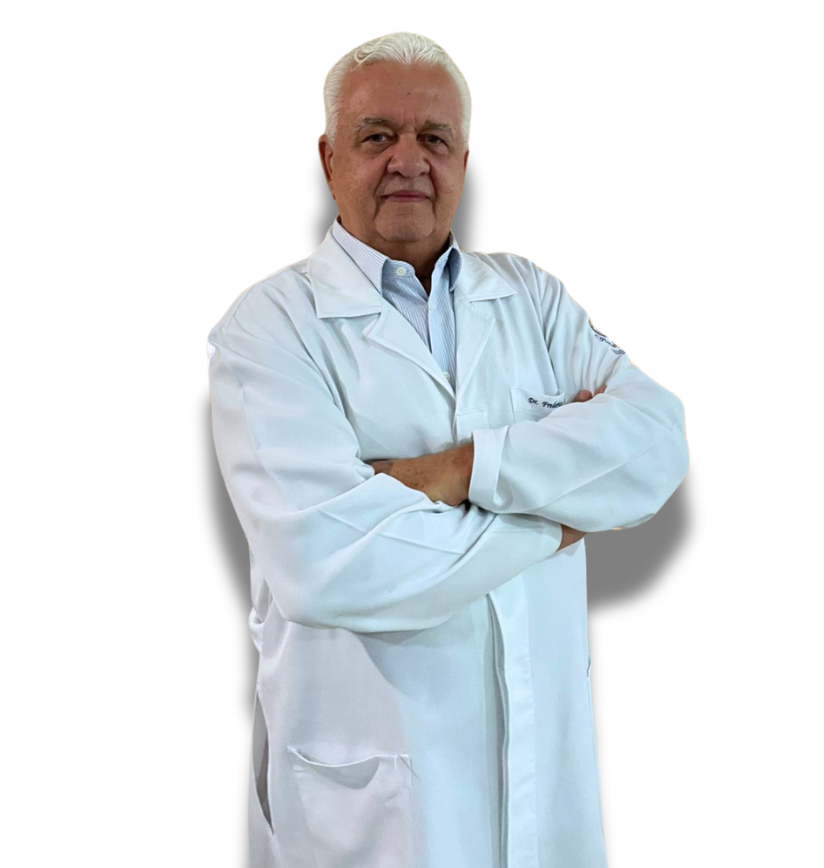
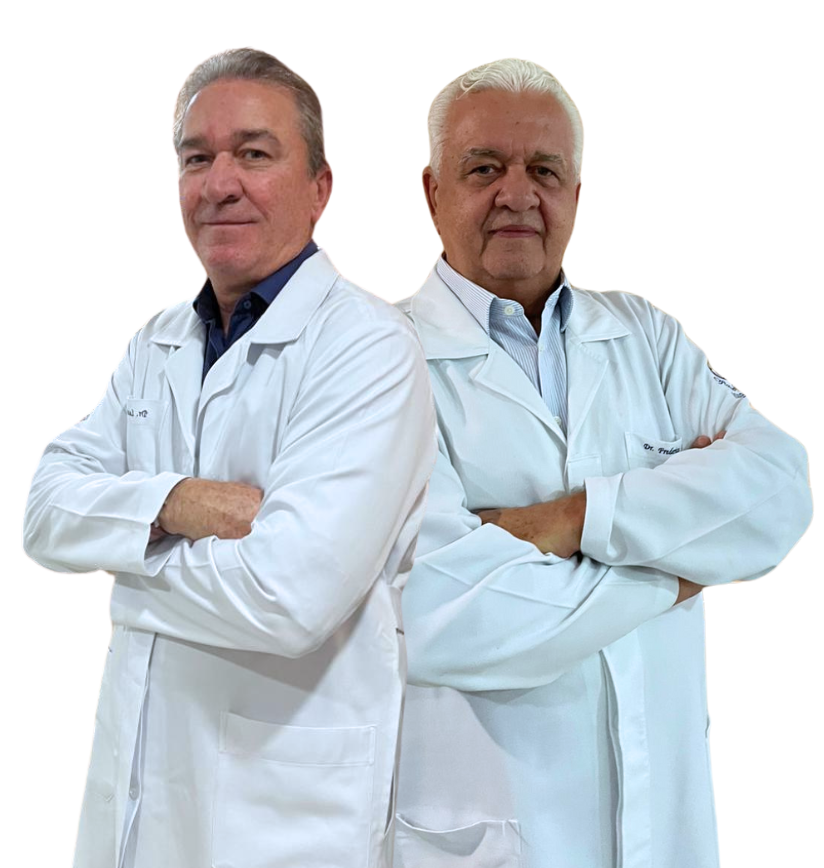
fix: ajustes

diff --git a/about-us.html b/about-us.html
@@ -52,7 +52,7 @@
         });
     </script>
 
-        <!-- HEADER SECTION -->
+    <!-- HEADER SECTION -->
     <header class="w-100 float-left header-con">
         <div class="wrapper">
             <nav class="navbar navbar-expand-lg navbar-light p-0">
@@ -74,7 +74,7 @@
                             <a class="nav-link p-0" href="index.html">Home</a>
                         </li>
                         <li class="nav-item">
-                            <a class="nav-link p-0" href="about-us.html">Sobre o Dr. Frederico 
+                            <a class="nav-link p-0" href="about-us.html">Médicos
                             </a>
                         </li>
                         <li class="nav-item">
@@ -91,7 +91,7 @@
                         </li>
                     </ul>
                     <div class="header-contact d-flex align-items-center">
-                       
+
                         <div class="phone d-flex align-items-center">
                             <figure class="mb-0">
                                 <img src="assets/images/headphone-icon.png" alt="headphone-icon">
@@ -133,26 +133,29 @@
                 <div class="about-box-img">
                     <div class="vedio-img position-relative">
                         <div class="vedio-sub-img">
-                            <img class="thumb poster-con img_dr_about" src="assets/images/WhatsApp Image 2025-02-03 at 13.07.11_90611852.jpg"
+                            <img class="thumb poster-con img_dr_about" src="assets/images/doctor-img-aboutsect.png"
                                 alt="vedio-img">
                         </div>
                     </div>
                 </div>
                 <div class="about-box-title" data-aos="fade-up" data-aos-duration="700">
-                    <span class="d-block sub-txt" style="font-size: 14px;">Especialista em Catarata e Saúde Ocular –
-                        Santo André, SP</span>
-                    <h2>Dr Frederico Soter
+                    <span class="d-block sub-txt" style="font-size: 14px;">Especialistas em Catarata e Saúde Ocular –
+                        Santo André, SP
+                    </span>
+                    <h2>Dr. Frederico Sóter e Dr. Luciano Sóter
                     </h2>
                     <p>
 
                         Com mais de quatro décadas de experiência e mais de 30 mil cirurgias realizadas, o Dr. Frederico
-                        Sóter é referência no tratamento de catarata, além de atender diversas outras patologias
+                        Sóter é referência no tratamento de catarata, além de atuar em diversas outras patologias
                         oculares, como glaucoma, doenças da retina e visão embaçada.
-                        <br> <br>
-                        Ao longo de sua carreira, ele já ajudou milhares de pacientes a superar dificuldades para
-                        enxergar, devolvendo qualidade de vida e independência. Muitos chegam ao consultório após
-                        experiências frustrantes ou tratamentos sem sucesso, mas aqui o atendimento é diferente:
-                        personalizado, cuidadoso e sem pressa, com foco total nas suas necessidades.
+                        <br><br>
+                        Ao seu lado, o Dr. Luciano Sóter também é especialista em catarata e cirurgia ocular, oferecendo
+                        atendimento de excelência, com foco na segurança, conforto e bem-estar dos pacientes.
+                        <br><br>
+                        Muitos chegam ao consultório após experiências frustrantes ou tratamentos sem sucesso, mas aqui
+                        o cuidado é diferente: atendimento personalizado, sem pressa, voltado para entender cada caso
+                        com profundidade e entregar o melhor resultado possível para a saúde dos seus olhos.
 
                     </p>
                     <div class="generic-list">
@@ -185,7 +188,7 @@
     </section>
     <!-- ABOUT SECTION -->
     <!-- ABOUT SECTION -->
-    <section id="about-section"
+    <!-- <section id="about-section"
         class="w-100 float-left about-con design-img padding-top padding-bottom position-relative">
         <div class="wrapper3">
             <div class="about-box" data-aos="fade-up" data-aos-duration="700">
@@ -237,7 +240,7 @@
         </div>
 
         <div id="fade1" onClick="lightbox_close();"></div>
-    </section>
+    </section> -->
     <!-- ABOUT SECTION -->
     <!-- PATIENTS REVIEWS SECTION -->
     <section class="patients-reviews-sec w-100 float-left padding-top padding-bottom">
@@ -336,10 +339,11 @@
                             <img src="assets/images/counter-img1.png" alt="counter-img1">
                         </figure>
                         <div class="counter-box position-relative">
-                            <h2 class="mb-0" style="color: white; font-size: 20px !important;">Principal Especialista</h2>
+                            <h2 class="mb-0" style="color: white; font-size: 20px !important;">Principal Especialista
+                            </h2>
 
                         </div>
-                        <span class="d-block client-status">Cirurgia de Carata com Lentes Premium no ABC 
+                        <span class="d-block client-status">Cirurgia de Carata com Lentes Premium no ABC
                         </span>
                     </li>
                     <li data-aos="fade-up" data-aos-duration="700">
@@ -471,8 +475,8 @@
         </div>
     </section>
     <!-- GET IN TOUCH SECTION -->
-      <!-- FOOTER SECTION -->
-      <section class="footer-main-section w-100 float-left">
+    <!-- FOOTER SECTION -->
+    <section class="footer-main-section w-100 float-left">
         <div class="container">
             <div class="footer-inner-con">
                 <div class="footer-box footer-logo-box">

diff --git a/index.html b/index.html
@@ -74,7 +74,7 @@
                             <a class="nav-link p-0" href="index.html">Home</a>
                         </li>
                         <li class="nav-item">
-                            <a class="nav-link p-0" href="about-us.html">Sobre o Dr. Frederico 
+                            <a class="nav-link p-0" href="about-us.html">Médicos
                             </a>
                         </li>
                         <li class="nav-item">
@@ -91,7 +91,7 @@
                         </li>
                     </ul>
                     <div class="header-contact d-flex align-items-center">
-                       
+
                         <div class="phone d-flex align-items-center">
                             <figure class="mb-0">
                                 <img src="assets/images/headphone-icon.png" alt="headphone-icon">
@@ -115,8 +115,9 @@
                 <div class="banner-inner-con">
                     <div class="banner-title">
                         <h1 data-aos="fade-up" data-aos-duration="700">Sua visão em 1º lugar.</h1>
-                        <p data-aos="fade-up" data-aos-duration="700">Oftalmologista especializado em Cirurgia de
-                            Catarata, Refrativa e Córnea, atendendo com excelência em Santo André!
+                        <p data-aos="fade-up" data-aos-duration="700">Oftalmologistas especializados em cirurgia de
+                            catarata com lentes premium, que podem proporcionar uma boa visão de perto, intermediária e
+                            de longe, sem a necessidade de óculos, eliminando completamente <br />o uso dos mesmos.
                         </p>
                         <div class="banner-btn d-flex align-items-center" data-aos="fade-up" data-aos-duration="700">
                             <a href="#contact-form">Agendar um consulta</a>
@@ -132,7 +133,8 @@
                             <img src="assets/images/doctor-img.png" alt="doctor-img">
                         </figure>
                         <div class="banner-details-txt">
-                            <p data-aos="fade-up" data-aos-duration="700">Referência em Cirurgia de Catarata com Lentes Premium no ABC Paulista
+                            <p data-aos="fade-up" data-aos-duration="700">Referência em Cirurgia de Catarata com Lentes
+                                Premium no ABC Paulista
                             </p>
                             <div class="banner-static-box">
                                 <ul class="mb-0 list-unstyled">
@@ -218,10 +220,10 @@
                         </div>
                     </div>
                     <p style="margin-top: 10px;">
-                        A catarata ocorre quando o cristalino, que deve ser transparente, fica opaco, formando um ponto
-                        cinza, como mostrado na imagem. Isso prejudica a visão e pode dificultar tarefas simples. O Dr.
-                        Frederico Sóter é referência no tratamento da catarata, oferecendo o melhor cuidado para sua
-                        visão.
+                        A catarata ocorre quando o cristalino, que deveria ser transparente, torna-se opaco, formando
+                        uma mancha acinzentada, como mostrado na imagem. Isso prejudica a visão e pode dificultar
+                        tarefas simples. O Instituto de Olhos do ABC é referência no tratamento da catarata, oferecendo
+                        a solução ideal para esse problema.
 
                     </p>
                     <a href="service-catarata.html">Saiba mais <i class="fas fa-angle-right"></i></a>
@@ -241,9 +243,11 @@
                         </div>
                     </div>
                     <p style="margin-top: 10px;">
-                        A cirurgia refrativa é segura e duradoura. Com ela, você pode dizer adeus aos óculos e lentes,
-                        conquistando uma visão clara e nítida, como mostrado na imagem, e ganhando mais liberdade,
-                        confiança e qualidade de vida.
+                        A cirurgia refrativa, quando realizada por um profissional experiente, é extremamente segura.
+                        Com ela, você pode dizer adeus aos óculos e lentes de contato, conquistando uma visão clara e
+                        nítida, como mostrado na imagem, além de mais liberdade, confiança e qualidade de vida. É
+                        fundamental passar por uma avaliação minuciosa com um especialista capacitado para garantir a
+                        segurança e a eficácia do procedimento.
                     </p>
                     <a href="service-cirurgia-refrativa.html">Saiba mais <i class="fas fa-angle-right"></i></a>
                 </div>
@@ -252,7 +256,7 @@
         </div>
     </section>
     <!-- SERVICE SECTION -->
-      <!-- PROCESS SECTION -->
+    <!-- PROCESS SECTION -->
     <section class="work-process-sec w-100 float-left padding-bottom padding-top" style="margin-top: -90px;">
         <div class="container">
             <div class="generic-title text-center" data-aos="fade-up" data-aos-duration="700">

diff --git a/service-catarata.html b/service-catarata.html
@@ -74,7 +74,7 @@
                             <a class="nav-link p-0" href="index.html">Home</a>
                         </li>
                         <li class="nav-item">
-                            <a class="nav-link p-0" href="about-us.html">Sobre o Dr. Frederico
+                            <a class="nav-link p-0" href="about-us.html">Médicos
                             </a>
                         </li>
                         <li class="nav-item">
@@ -143,14 +143,14 @@
                     <h2>Conheça a Cirurgia de Catarata
                     </h2>
                     <p>
-                        A cirurgia para essa doença é um procedimento rápido, seguro e indolor. Sob sedação, é realizada
-                        a troca do cristalino opacificado (catarata) pela lente intraocular artificial, sem necessidade
-                        de internação prolongada em hospital.
-
-                        <br> <br>
-                        Hoje existem diversos modelos de lentes intraoculares, possibilitando não só o tratamento da
-                        doença, mas também a correção dos erros refrativos (miopia, hipermetropia, astigmatismo e
-                        presbiopia).
+                        A cirurgia para essa patologia é um procedimento rápido, seguro e indolor. Sob sedação,
+                        realiza-se a substituição do cristalino opacificado (catarata) por uma lente intraocular
+                        artificial, sem necessidade de internação hospitalar. Após cerca de 30 minutos, o paciente
+                        recebe alta.
+                        <br><br>
+                        Atualmente, existem diversos modelos de lentes intraoculares, que permitem não apenas o
+                        tratamento da catarata, mas também a correção de erros refrativos, como miopia, hipermetropia,
+                        astigmatismo e presbiopia — eliminando, assim, a necessidade do uso de óculos.
                     </p>
 
                     <div class="generic-btn">
@@ -189,12 +189,27 @@
                             <li>Rápida</li>
                             <p>O procedimento cirúrgico ocorre em aproximadamente 20 minutos. </p>
                             <li>Indolor</li>
-                            <p>Durante o procedimento cirúrgico, o paciente recebe anestesia local com o uso de
-                                colírios.
+                            <p>Durante o procedimento cirúrgico, o paciente recebe uma sedação leve, semelhante a usada
+                                para uma endoscopia, e colírios anestésicos, tornando o procedimento totalmente indolor.
                             </p>
                             <li>Segura</li>
-                            <p>Sempre tomando todos os cuidados necessários, o procedimento cirúrgico tem baixo risco de
-                                complicações.
+                            <p>
+                                Sempre tomando todos os cuidados necessários, o procedimento cirúrgico tem baixo risco
+                                de complicações, e o retorno para casa se dá em aproximadamente 30 minutos.
+
+                            </p>
+                            <li>Tecnologia</li>
+                            <p>
+                                A técnica cirúrgica utilizada é a facoemulsificação do cristalino (catarata), com o
+                                auxílio do laser — um procedimento rápido, porém extremamente sofisticado.
+
+                            </p>
+                            <li>Resultados</li>
+                            <p>
+                                Extremamente gratificantes. A combinação da técnica com o implante de lentes de última
+                                geração, as chamadas Lentes Premium, proporciona uma excelente visão à distância,
+                                intermediária e de perto, com total clareza.
+
                             </p>
 
                         </ul>

diff --git a/assets/css/mobile.css b/assets/css/mobile.css
@@ -64,7 +64,7 @@
     .banner-details-txt p {
         margin-bottom: 35px;
         width: 60%;
-        margin-left: 219px;
+        margin-left: 249px;
     }
 
     .client-review {
@@ -230,7 +230,7 @@
     .banner-details-txt p {
         margin-bottom: 25px;
         width: 68%;
-        margin-left: 215px;
+        margin-left: 285px;
     }
 
     .client-review {
@@ -438,7 +438,7 @@
 
     .banner-details-txt p {
         margin-bottom: 20px;
-        margin-left: 155px;
+        margin-left: 195px;
         margin-top: -34px;
         font-size: 18px;
         line-height: 26px;

diff --git a/blog.html b/blog.html
@@ -78,7 +78,7 @@
                             <a class="nav-link p-0" href="index.html">Home</a>
                         </li>
                         <li class="nav-item">
-                            <a class="nav-link p-0" href="about-us.html">Sobre o Dr. Frederico 
+                            <a class="nav-link p-0" href="about-us.html">Médicos 
                             </a>
                         </li>
                         <li class="nav-item">

diff --git a/contact.html b/contact.html
@@ -74,7 +74,7 @@
                             <a class="nav-link p-0" href="index.html">Home</a>
                         </li>
                         <li class="nav-item">
-                            <a class="nav-link p-0" href="about-us.html">Sobre o Dr. Frederico 
+                            <a class="nav-link p-0" href="about-us.html">Médicos 
                             </a>
                         </li>
                         <li class="nav-item">

diff --git a/doctors.html b/doctors.html
@@ -75,7 +75,7 @@
                             <a class="nav-link p-0" href="index.html">Home</a>
                         </li>
                         <li class="nav-item">
-                            <a class="nav-link p-0" href="about-us.html">Sobre o Dr. Frederico 
+                            <a class="nav-link p-0" href="about-us.html">Médicos 
                             </a>
                         </li>
                         <li class="nav-item">

diff --git a/services.html b/services.html
@@ -75,7 +75,7 @@
                             <a class="nav-link p-0" href="index.html">Home</a>
                         </li>
                         <li class="nav-item">
-                            <a class="nav-link p-0" href="about-us.html">Sobre o Dr. Frederico 
+                            <a class="nav-link p-0" href="about-us.html">Médicos 
                             </a>
                         </li>
                         <li class="nav-item">

diff --git a/service-cirurgia-refrativa.html b/service-cirurgia-refrativa.html
@@ -74,7 +74,7 @@
                             <a class="nav-link p-0" href="index.html">Home</a>
                         </li>
                         <li class="nav-item">
-                            <a class="nav-link p-0" href="about-us.html">Sobre o Dr. Frederico
+                            <a class="nav-link p-0" href="about-us.html">Médicos
                             </a>
                         </li>
                         <li class="nav-item">

diff --git a/service-estrabismo.html b/service-estrabismo.html
@@ -74,7 +74,7 @@
                             <a class="nav-link p-0" href="index.html">Home</a>
                         </li>
                         <li class="nav-item">
-                            <a class="nav-link p-0" href="about-us.html">Sobre o Dr. Frederico
+                            <a class="nav-link p-0" href="about-us.html">Médicos
                             </a>
                         </li>
                         <li class="nav-item">

diff --git a/service-glaucoma.html b/service-glaucoma.html
@@ -74,7 +74,7 @@
                             <a class="nav-link p-0" href="index.html">Home</a>
                         </li>
                         <li class="nav-item">
-                            <a class="nav-link p-0" href="about-us.html">Sobre o Dr. Frederico
+                            <a class="nav-link p-0" href="about-us.html">Médicos
                             </a>
                         </li>
                         <li class="nav-item">

diff --git a/service-oftalmopediatria.html b/service-oftalmopediatria.html
@@ -74,7 +74,7 @@
                             <a class="nav-link p-0" href="index.html">Home</a>
                         </li>
                         <li class="nav-item">
-                            <a class="nav-link p-0" href="about-us.html">Sobre o Dr. Frederico
+                            <a class="nav-link p-0" href="about-us.html">Médicos
                             </a>
                         </li>
                         <li class="nav-item">
